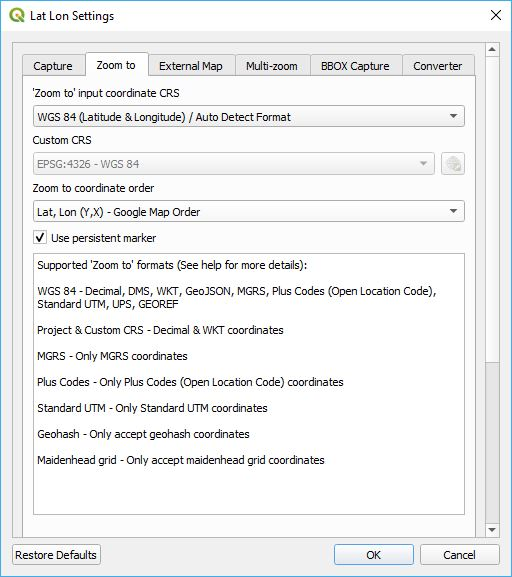
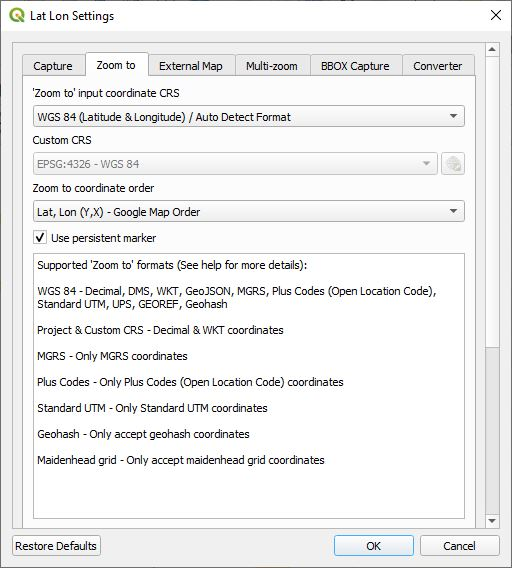
Added geohash to auto detect in zoom to dialog

Changed region(s): [[0.0, 0.0, 1.0, 1.0]]

diff --git a/index.html b/index.html
@@ -264,7 +264,7 @@ code {
 
 <p>The <strong><em>Zoom to Latitude, Longitude</em></strong> tool accepts the following input coordinates as specified by <strong><em>Zoom to Coordinate Type</em></strong>:</p>
 <ul>
-<li><strong>WGS 84 (Latitude &amp; Longitude) / Auto Detect Format</strong> - Input coordinates can be either in decimal degrees, DMS degrees, WKT, or GeoJSON. For decimal and DMS formats, the order of the coordinates are determined by <strong><em>Zoom to Coordinate Order</em></strong>. It also auto detects MGRS, Plus Codes, Standard UTM, UPS, and GEOREF formats so it is generally unnecessary to specify them separately.</li>
+<li><strong>WGS 84 (Latitude &amp; Longitude) / Auto Detect Format</strong> - Input coordinates can be either in decimal degrees, DMS degrees, WKT, or GeoJSON. For decimal and DMS formats, the order of the coordinates are determined by <strong><em>Zoom to Coordinate Order</em></strong>. It also auto detects MGRS, Plus Codes, Standard UTM, UPS, GEOREF, and Geohash formats so it is generally unnecessary to specify them separately.</li>
 <li><strong>Project CRS</strong> - This accepts coordinates formatted in the CRS of the QGIS project. The numbers can be formatted in decimal or WKT notation.</li>
 <li><strong>Custom CRS</strong> - You can specify any CRS for the input coordinates and QGIS zooms to that coordinate regardless of the project CRS. The numbers can be formatted in decimal or WKT notation.</li>
 <li><strong>MGRS</strong> - This only accepts <a href="https://en.wikipedia.org/wiki/Military_grid_reference_system">MGRS</a> coordinates as input.</li>

diff --git a/latLonFunctions.py b/latLonFunctions.py
@@ -588,16 +588,17 @@ def dm(values, feature, parent):
     Convert a coordinate to a Degree, Minute (DM) string.
 
     <h4>Syntax</h4>
-    <p><b>dm</b>( <i>lat, lon, order, precision[,add_space=False, pad_zero=False, delimiter=', ']</i> )</p>
+    <p><b>dm</b>( <i>y, x, order, precision[,add_space=False, pad_zero=False, delimiter=', ', crs='EPSG:4326']</i> )</p>
 
     <h4>Arguments</h4>
-    <p><i>lat</i> &rarr; a latitude value.</p>
-    <p><i>lon</i> &rarr; a longitude value.</p>
+    <p><i>y</i> &rarr; the y or latitude coordinate.</p>
+    <p><i>x</i> &rarr; the x or longitude coordinate.</p>
     <p><i>order</i> &rarr; specify either 'yx' or 'xy' for latitude, longitude or longitude, latitude.
     <p><i>precision</i> &rarr; specifies the number of digits after the minutes decimal point.</p>
     <p><i>add_space</i> &rarr; when True a space will be added between D M values. Default value is False.
     <p><i>pad_zero</i> &rarr; pad values with leading zeros. Default value is False.
     <p><i>delimiter</i> &rarr; specifies the delimiter between the dm latitude, longitude pairs. The default value is ', '.
+    <p><i>crs</i> &rarr; optional coordinate reference system of the y, x coordinates. Default value is 'EPSG:4326'.</p>
 
     <h4>Example usage</h4>
     <ul>
@@ -606,22 +607,27 @@ def dm(values, feature, parent):
       <li><b>dm</b>(28.41870950, -81.58118645, 'yx', 0, True) &rarr; '28° 25' N, 81° 35' W'</li>
       <li><b>dm</b>(28.41870950, -81.58118645, 'yx', 2, False, True) &rarr; 28°25.12'N, 081°34.87'W</li>
       <li><b>dm</b>(28.41870950, -81.58118645, 'yx', 0, False, True, ' : ') &rarr; 28°25'N : 081°35'W</li>
+      <li><b>dm</b>(3301866.78, -9081576.13, 'yx', 0,False,False,', ', 'EPSG:3857') &rarr;  '28°25'N, 81°35'W'</li>
     </ul>
     """
     num_args = len(values)
-    if num_args < 4 or num_args > 7:
+    if num_args < 4 or num_args > 8:
         parent.setEvalErrorString("Error: invalid number of arguments")
         return
     try:
-        lat = float(values[0])
-        lon = float(values[1])
+        y = float(values[0])
+        x = float(values[1])
         order = 0 if values[2] == 'yx' else 1
         precision = int(values[3])
         addspace = values[4] if num_args > 4 else False
         pad_zero = values[5] if num_args > 5 else False
         delimiter = values[6] if num_args > 6 else ', '
+        if num_args == 8:
+            crs = values[7]
+            if crs and crs != 'EPSG:4326':
+                y, x = transform_coords(y, x, crs)
 
-        dms_str = formatDmsString(lat, lon, 2, precision, order, delimiter, addspace, pad_zero)
+        dms_str = formatDmsString(y, x, 2, precision, order, delimiter, addspace, pad_zero)
     except Exception:
         parent.setEvalErrorString("Error: invalid latitude, longitude, or parameters")
         return
@@ -634,16 +640,17 @@ def dms(values, feature, parent):
     Convert a coordinate to a Degree, Minute, Second (DMS) string.
 
     <h4>Syntax</h4>
-    <p><b>dms</b>( <i>lat, lon, order, precision[,add_space=False, pad_zero=False, delimiter=', ']</i> )</p>
+    <p><b>dms</b>( <i>y, x, order, precision[,add_space=False, pad_zero=False, delimiter=', ', crs='EPSG:4326']</i> )</p>
 
     <h4>Arguments</h4>
-    <p><i>lat</i> &rarr; a latitude value.</p>
-    <p><i>lon</i> &rarr; a longitude value.</p>
+    <p><i>y</i> &rarr; the y or latitude coordinate.</p>
+    <p><i>x</i> &rarr; the x or longitude coordinate.</p>
     <p><i>order</i> &rarr; specify either 'yx' or 'xy' for latitude, longitude or longitude, latitude.
     <p><i>precision</i> &rarr; specifies the number of digits after the seconds decimal point.</p>
     <p><i>add_space</i> &rarr; when True a space will be added between D M S values. Default value is False.
     <p><i>pad_zero</i> &rarr; pad values with leading zeros. Default value is False.
     <p><i>delimiter</i> &rarr; specifies the delimiter between the dms latitude, longitude pairs. The default value is ', '.
+    <p><i>crs</i> &rarr; optional coordinate reference system of the y, x coordinates. Default value is 'EPSG:4326'.</p>
 
     <h4>Example usage</h4>
     <ul>
@@ -652,22 +659,27 @@ def dms(values, feature, parent):
       <li><b>dms</b>(28.41870950, -81.58118645, 'yx', 0, True) &rarr; 28° 25' 7" N, 81° 34' 52" W</li>
       <li><b>dms</b>(28.41870950, -81.58118645, 'yx', 2, False, True) &rarr; 28°25'07.35"N, 081°34'52.27"W</li>
       <li><b>dms</b>(28.41870950, -81.58118645, 'yx', 0, False, True, ' : ') &rarr; 28°25'07"N : 081°34'52"W</li>
+      <li><b>dms</b>(3301866.78, -9081576.13, 'yx', 0,False,True,', ', 'EPSG:3857') &rarr; '28°25'07"N, 081°34'52"W'</li>
     </ul>
     """
     num_args = len(values)
-    if num_args < 4 or num_args > 7:
+    if num_args < 4 or num_args > 8:
         parent.setEvalErrorString("Error: invalid number of arguments")
         return
     try:
-        lat = float(values[0])
-        lon = float(values[1])
+        y = float(values[0])
+        x = float(values[1])
         order = 0 if values[2] == 'yx' else 1
         precision = int(values[3])
         addspace = values[4] if num_args > 4 else False
         pad_zero = values[5] if num_args > 5 else False
         delimiter = values[6] if num_args > 6 else ', '
+        if num_args == 8:
+            crs = values[7]
+            if crs and crs != 'EPSG:4326':
+                y, x = transform_coords(y, x, crs)
 
-        dms_str = formatDmsString(lat, lon, 0, precision, order, delimiter, addspace, pad_zero)
+        dms_str = formatDmsString(y, x, 0, precision, order, delimiter, addspace, pad_zero)
     except Exception:
         parent.setEvalErrorString("Error: invalid latitude, longitude, or parameters")
         return
@@ -679,36 +691,41 @@ def ddmmss(values, feature, parent):
     Convert a coordinate to a DDMMSS string.
 
     <h4>Syntax</h4>
-    <p><b>ddmmss</b>( <i>lat, lon, order, precision[, delimiter=', ']</i> )</p>
+    <p><b>ddmmss</b>( <i>y, x, order, precision[, delimiter=', ', crs='EPSG:4326']</i> )</p>
 
     <h4>Arguments</h4>
-    <p><i>lat</i> &rarr; a latitude value.</p>
-    <p><i>lon</i> &rarr; a longitude value.</p>
+    <p><i>y</i> &rarr; the y or latitude coordinate.</p>
+    <p><i>x</i> &rarr; the x or longitude coordinate.</p>
     <p><i>order</i> &rarr; specify either 'yx' or 'xy' for latitude, longitude or longitude, latitude.
     <p><i>precision</i> &rarr; specifies the number of digits after the seconds decimal point.</p>
     <p><i>delimiter</i> &rarr; specifies the delimiter between the ddmmss latitude, longitude pairs. The default value is ', '.
+    <p><i>crs</i> &rarr; optional coordinate reference system of the y, x coordinates. Default value is 'EPSG:4326'.</p>
 
     <h4>Example usage</h4>
     <ul>
       <li><b>ddmmss</b>(28.41870950, -81.58118645, 'yx', 0) &rarr; 282507N, 0813452W</li>
       <li><b>ddmmss</b>(28.41870950, -81.58118645, 'xy', 0) &rarr; 0813452W, 282507N</li>
       <li><b>ddmmss</b>(28.41870950, -81.58118645, 'yx', 2) &rarr; 282507.35N, 0813452.27W</li>
-      <li><b>ddmmss</b>(28.41870950, -81.58118645, 'yx', 0, ' : ') &rarr; 282507N : 0813452W</li>
+      <li><b>ddmmss</b>(28.41870950, -81.58118645, 'yx', 0, ':') &rarr; 282507N:0813452W</li>
+      <li><b>ddmmss</b>(3301866.78, -9081576.13, 'yx', 0,', ', 'EPSG:3857') &rarr; '282507N, 0813452W'</li>
     </ul>
     """
     num_args = len(values)
-    if num_args < 4 or num_args > 5:
+    if num_args < 4 or num_args > 6:
         parent.setEvalErrorString("Error: invalid number of arguments")
         return
     try:
-        lat = float(values[0])
-        lon = float(values[1])
+        y = float(values[0])
+        x = float(values[1])
         order = 0 if values[2] == 'yx' else 1
         precision = int(values[3])
         delimiter = values[4] if num_args > 4 else ', '
-
-        dms_str = formatDmsString(lat, lon, 1, precision, order, delimiter, False, False)
+        if num_args == 6:
+            crs = values[5]
+            if crs and crs != 'EPSG:4326':
+                y, x = transform_coords(y, x, crs)
+        dms_str = formatDmsString(y, x, 1, precision, order, delimiter, False, False)
     except Exception:
-        parent.setEvalErrorString("Error: invalid latitude, longitude, or parameters")
+        parent.setEvalErrorString("Error: invalid parameters")
         return
     return dms_str

diff --git a/zoomToLatLon.py b/zoomToLatLon.py
@@ -180,6 +180,13 @@ class ZoomToLatLon(QDockWidget, FORM_CLASS):
             except Exception:
                 pass
 
+            # Check to see if it is a geohash string
+            try:
+                (lat, lon, lat_err, lon_err) = geohash.decode_exactly(text)
+                return(lat, lon, epsg4326)
+            except Exception:
+                pass
+
             # Check to see if it is a WKT POINT format
             if re.search(r'POINT\(', text) is not None:
                 m = re.findall(r'POINT\(\s*([+-]?\d*\.?\d*)\s+([+-]?\d*\.?\d*)', text)

diff --git a/readme.md b/readme.md
@@ -214,7 +214,7 @@ The order in which the coordinates are captured is determined by ***Coordinate o
 
 The ***Zoom to Latitude, Longitude*** tool accepts the following input coordinates as specified by ***Zoom to Coordinate Type***:
 
-* **WGS 84 (Latitude & Longitude) / Auto Detect Format** - Input coordinates can be either in decimal degrees, DMS degrees, WKT, or GeoJSON. For decimal and DMS formats, the order of the coordinates are determined by ***Zoom to Coordinate Order***. It also auto detects MGRS, Plus Codes, Standard UTM, UPS, and GEOREF formats so it is generally unnecessary to specify them separately.
+* **WGS 84 (Latitude & Longitude) / Auto Detect Format** - Input coordinates can be either in decimal degrees, DMS degrees, WKT, or GeoJSON. For decimal and DMS formats, the order of the coordinates are determined by ***Zoom to Coordinate Order***. It also auto detects MGRS, Plus Codes, Standard UTM, UPS, GEOREF, and Geohash formats so it is generally unnecessary to specify them separately.
 * **Project CRS** - This accepts coordinates formatted in the CRS of the QGIS project. The numbers can be formatted in decimal or WKT notation.
 * **Custom CRS** - You can specify any CRS for the input coordinates and QGIS zooms to that coordinate regardless of the project CRS. The numbers can be formatted in decimal or WKT notation.
 * **MGRS** - This only accepts [MGRS](https://en.wikipedia.org/wiki/Military_grid_reference_system) coordinates as input.
